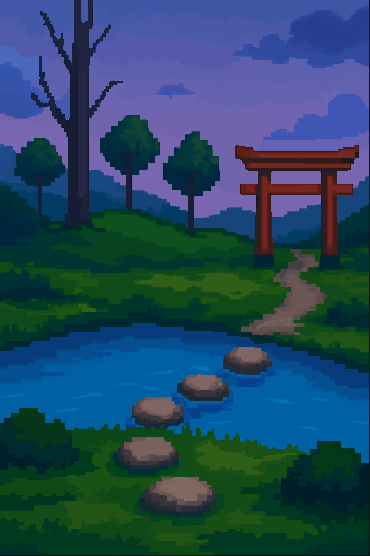
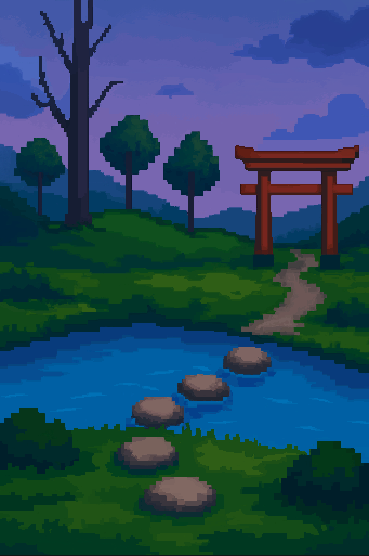
Updates the background and the border colour for the background
The background had a black line along the side, so this commit crops that out. This isn't an issue with the other graphics, seems to have been a one time export problem. Keep an eye on it in the future though in case it happens again (e.g. with Huā's animations).

diff --git a/src/App.css b/src/App.css
@@ -81,7 +81,7 @@ h1 {
   padding: 25px 30px;
   flex-direction: column;
   justify-content: flex-start;
-  border: 2px solid #404383;
+  border: 2px solid #535aba;
 }
 
 .todo-less {
